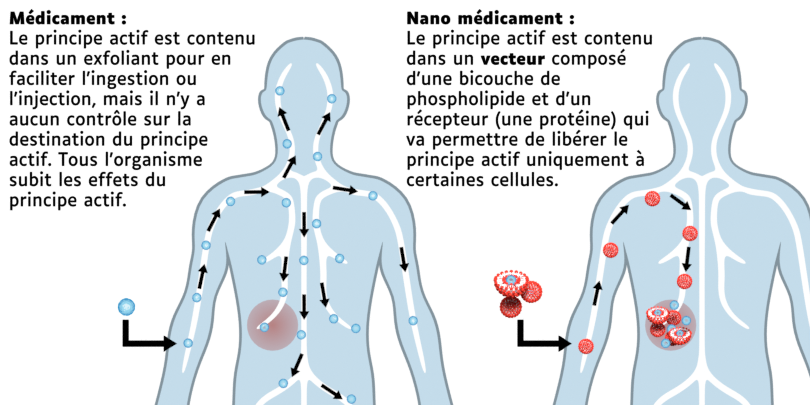
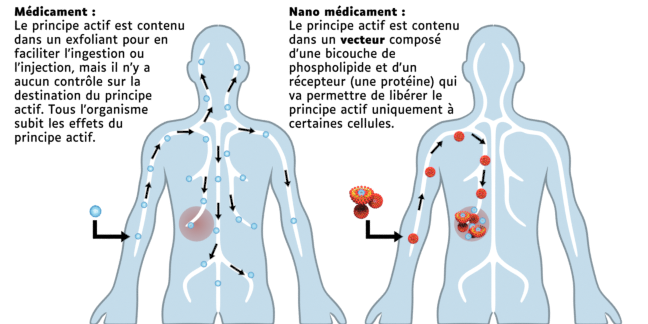
Ajout d'une commande pour espacer une molécule invoquée (comme \dioxygene) du texte qui la suit.

diff --git a/_molecules.tex b/_molecules.tex
@@ -29,44 +29,44 @@
 \definesubmol\alkyleD{(-[-1] R_2)}
 
 %%%% Éléments récurrents 
-\newcommand{\hydrogene}{\chemfig{H}}
-\newcommand{\carbone}  {\chemfig{C}}
-\newcommand{\oxygene}  {\chemfig{O}}
-\newcommand{\azote}    {\chemfig{N}}
-\newcommand{\electron} {\chemfig{e^{-}}}
+\newcommand{\hydrogene}{\chemfig{H}\xspace}
+\newcommand{\carbone}  {\chemfig{C}\xspace}
+\newcommand{\oxygene}  {\chemfig{O}\xspace}
+\newcommand{\azote}    {\chemfig{N}\xspace}
+\newcommand{\electron} {\chemfig{e^{-}}\xspace}
 %%%% Molécules récurrentes
-\newcommand{\dioxygene}          {\chemfig{O_2}}
-\newcommand{\diazote}            {\chemfig{N_2}}
-\newcommand{\dioxydeDeCarbone}   {\chemfig{CO_2}}
-\newcommand{\eau}                {\chemfig{H_2O}}
-\newcommand{\methane}            {\chemfig{CH_4}}
-\newcommand{\ammoniac}           {\chemfig{NH_3}}
-\newcommand{\diiode}             {\chemfig{I_2}}
-\newcommand{\acideCarbonique}    {\chemfig{H_2CO_3}}
-\newcommand{\carbonateDeCalcium} {\chemfig{CaCO_3}}
-\newcommand{\bicarbonateDeSodium}{\chemfig{NaHCO_3}}
-\newcommand{\azotureDeSodium}    {\chemfig{NaN_3}}
-\newcommand{\chlorureDArgent}    {\chemfig{AgCl}}
+\newcommand{\dioxygene}          {\chemfig{O_2}\xspace}
+\newcommand{\diazote}            {\chemfig{N_2}\xspace}
+\newcommand{\dioxydeDeCarbone}   {\chemfig{CO_2}\xspace}
+\newcommand{\eau}                {\chemfig{H_2O}\xspace}
+\newcommand{\methane}            {\chemfig{CH_4}\xspace}
+\newcommand{\ammoniac}           {\chemfig{NH_3}\xspace}
+\newcommand{\diiode}             {\chemfig{I_2}\xspace}
+\newcommand{\acideCarbonique}    {\chemfig{H_2CO_3}\xspace}
+\newcommand{\carbonateDeCalcium} {\chemfig{CaCO_3}\xspace}
+\newcommand{\bicarbonateDeSodium}{\chemfig{NaHCO_3}\xspace}
+\newcommand{\azotureDeSodium}    {\chemfig{NaN_3}\xspace}
+\newcommand{\chlorureDArgent}    {\chemfig{AgCl}\xspace}
 %%%% Ions récurrents
-\newcommand{\oxonium}     {\chemfig{H_3O^{+}}}
-\newcommand{\hydroxyde}   {\chemfig{HO^{-}}}
-\newcommand{\ionHydrogene}{\chemfig{H^{+}}}
-\newcommand{\ammonium}    {\chemfig{NH_4^{+}}}
-\newcommand{\nitrate}     {\chemfig{NO_3^{-}}}
-\newcommand{\sulfate}     {\chemfig{SO_4^{2-}}}
-\newcommand{\chlorure}    {\chemfig{Cl^{-}}}
-\newcommand{\fluorure}    {\chemfig{F^{-}}}
-\newcommand{\carbonate}   {\chemfig{CO_3^{2-}}}
-\newcommand{\bicarbonate} {\chemfig{HCO_3^{-}}}
-\newcommand{\ionFerII}    {\chemfig{Fe^{2+}}}
-\newcommand{\ionFerIII}   {\chemfig{Fe^{3+}}}
-\newcommand{\ionSodium}   {\chemfig{Na^{+}}}
-\newcommand{\ionArgent}   {\chemfig{Ag^{+}}}
-\newcommand{\hypochlorite}{\chemfig{ClO^{-}}}
-\newcommand{\ionCuivreII} {\chemfig{Cu^{2+}}}
-\newcommand{\ionCalcium}  {\chemfig{Ca^{2+}}}
-\newcommand{\ionMagnesium}{\chemfig{Mg^{2+}}}
-\newcommand{\ionPotassium}{\chemfig{K^{+}}}
+\newcommand{\oxonium}     {\chemfig{H_3O^{+}}\xspace}
+\newcommand{\hydroxyde}   {\chemfig{HO^{-}}\xspace}
+\newcommand{\ionHydrogene}{\chemfig{H^{+}}\xspace}
+\newcommand{\ammonium}    {\chemfig{NH_4^{+}}\xspace}
+\newcommand{\nitrate}     {\chemfig{NO_3^{-}}\xspace}
+\newcommand{\sulfate}     {\chemfig{SO_4^{2-}}\xspace}
+\newcommand{\chlorure}    {\chemfig{Cl^{-}}\xspace}
+\newcommand{\fluorure}    {\chemfig{F^{-}}\xspace}
+\newcommand{\carbonate}   {\chemfig{CO_3^{2-}}\xspace}
+\newcommand{\bicarbonate} {\chemfig{HCO_3^{-}}\xspace}
+\newcommand{\ionFerII}    {\chemfig{Fe^{2+}}\xspace}
+\newcommand{\ionFerIII}   {\chemfig{Fe^{3+}}\xspace}
+\newcommand{\ionSodium}   {\chemfig{Na^{+}}\xspace}
+\newcommand{\ionArgent}   {\chemfig{Ag^{+}}\xspace}
+\newcommand{\hypochlorite}{\chemfig{ClO^{-}}\xspace}
+\newcommand{\ionCuivreII} {\chemfig{Cu^{2+}}\xspace}
+\newcommand{\ionCalcium}  {\chemfig{Ca^{2+}}\xspace}
+\newcommand{\ionMagnesium}{\chemfig{Mg^{2+}}\xspace}
+\newcommand{\ionPotassium}{\chemfig{K^{+}}\xspace}
 
 %%%% État physique
 \newcommand{\aq} { \ensuremath{_\text{(aq)}} }

diff --git a/seconde/reaction_chimie/TP_se_chauffer_au_gaz.tex b/seconde/reaction_chimie/TP_se_chauffer_au_gaz.tex
@@ -40,7 +40,7 @@
 }{
   Les réactifs sont le méthane \methane et le dioxygène \dioxygene.
   Les produits sont le dioxyde de carbone \dioxydeDeCarbone et l'eau \eau.
-}{2}
+}[2]
 
 \question{
   Écrire la réaction chimique de combustion du méthane, en précisant les états physiques de chaque espèce chimique.
@@ -50,7 +50,7 @@
       \reaction
       \dioxydeDeCarbonegaz + \chemfig{H_2O}\gaz
   \end{center}
-}{2}
+}[2]
 
 %%
 \begin{doc}{Ajustage d'une réaction}{doc:TP2_equlibrage_reaction}
@@ -90,7 +90,7 @@
     \reaction
     \dioxydeDeCarbone\gaz + 2\chemfig{H_2O}\gaz
   \end{equation*}
-}{2}
+}[2]
 
 
 %%%% bonus
@@ -106,7 +106,7 @@
   Préciser l'état physique des réactifs et des produits.
 }{
   ...
-}{2}
+}[2]
 
 \vspace*{-4pt}
 \begin{doc}{L'eau de chaux}{doc:TP2_eaux_de_chaux}
@@ -118,7 +118,7 @@
   Écrire la réaction de formation du calcaire dans l'eau de chaux en présence de dioxyde de carbone et l'ajuster avec des coefficients stoechiométrique.
 }{
   ...
-}{2}
+}[2]
 
 \numeroQuestion
 Ajuster les réactions chimiques suivantes en écrivant, si nécessaire, les coefficients stoechiométriques devant chaque élément chimique :
@@ -236,7 +236,7 @@ Ajuster les réactions chimiques suivantes en écrivant, si nécessaire, les coe
 %   Écrire la réaction de dissolution du chlorure d'ammonium dans l'eau.
 % }{
 %   \chemfig{NH_4 Cl}\sol \reaction \ammonium + \chlorure
-% }{1}
+% }[1]
 
 \mesure
 Réaliser les dissolutions demandées dans le document~\ref{doc:TP2_dissolution_protocole}. 
@@ -267,7 +267,7 @@ Noter les mesures de températures dans le tableau suivant :
   Parmi les deux dissolution, indiquer laquelle est exothermique et laquelle est endothermique. Justifier.
 }{
   La réaction est endothermique, car la température de la solution baisse pendant la dissolution.
-}{2}
+}[2]
 
 %%
 \question{
@@ -278,7 +278,7 @@ Noter les mesures de températures dans le tableau suivant :
   $E_1 = \qty{875}{\joule}$,
   $E_2 = \qty{1750}{\joule}$,
   $E_2 = \qty{2625}{\joule}$
-}{3}
+}[3]
 
 %%
 % \question{
@@ -286,7 +286,7 @@ Noter les mesures de températures dans le tableau suivant :
 %   Comparer avec la valeur de référence $E_m = \qty{276,3}{\joule\per\g}$.
 % }{
 %   ...
-% }{2}
+% }[2]
 
 \begin{doc}{Énergie de combustion du méthane}{doc:TP2_energie_combustion}
   Comme la réaction de dissolution de la soude, la combustion du méthane libère de l'énergie.
@@ -315,12 +315,12 @@ Noter les mesures de températures dans le tableau suivant :
 
 \question{
   Rappeler la température d'ébullition de l'eau.
-}{}{1}
+}{}[1]
 
 \question{
   Calculer $\Delta T$ si on veut faire bouillir de l'eau initialement à \qty{20}{\degreeCelsius}.
-}{}{2}
+}{}[2]
 
 \question{
   Calculer le volume de gaz nécessaire pour faire bouillir 1 litre d'eau initialement à \qty{20}{\degreeCelsius}.
-}{}{3}
+}{}[3]

diff --git a/stssTerminale.tex b/stssTerminale.tex
@@ -52,8 +52,8 @@
 % \inclusActivite[3]{stssTerminale/biomolecules_alimentation/A3_vitamines}
 % \inclusActivite[4]{stssTerminale/biomolecules_alimentation/A4_lipides}
 % \inclusActivite[1]{stssTerminale/biomolecules_alimentation/TP1_saponification}
-\inclusActivite[5]{stssTerminale/biomolecules_alimentation/A5_additifs}
+% \inclusActivite[5]{stssTerminale/biomolecules_alimentation/A5_additifs}
 
 %% Médicaments et cosmetiques
-\inclusActivite[1]{stssTerminale/molecule_medicament/A1_aspirine}
+% \inclusActivite[1]{stssTerminale/molecule_medicament/A1_aspirine}
 % \inclusActivite[1]{stssTerminale/usage_reponsable_cosmetique/A1_}

diff --git a/seconde.tex b/seconde.tex
@@ -63,7 +63,7 @@
 %% Réactions chimiques
 % \inclusActivite[1]{seconde/reaction_chimie/A_reaction_chimique}
 % \inclusActivite[1]{seconde/reaction_chimie/TP_extincteur_chimique}
-% \inclusActivite[2]{seconde/reaction_chimie/TP_se_chauffer_au_gaz}
+\inclusActivite[2]{seconde/reaction_chimie/TP_se_chauffer_au_gaz}
 % \inclusActivite[2]{seconde/reaction_chimie/TP_dissolution_et_transfert_d-energie}
 %% \inclusActivite[2]{seconde/reaction_chimie/AE2_corrosion}
 % \inclusActivite[3]{seconde/reaction_chimie/A_detartrage_chimique}

diff --git a/stssTerminale/molecule_medicament/A1_aspirine.tex b/stssTerminale/molecule_medicament/A1_aspirine.tex
@@ -95,9 +95,9 @@
 
 \begin{doc}{Les nanomédicaments}{doc:A1_nanomedicaments}
   \begin{wrapfigure}[6]{r}{0.4\linewidth}
-    \vspace*{-10pt}
+    \vspace*{-20pt}
     \begin{center}
-      \image{0.8}{images/sante/nanomedicament} \\
+      \image{0.9}{images/sante/nanomedicament} \\
       \legende{Structure d'un nanomédicament}
     \end{center}
   \end{wrapfigure}

diff --git a/_parametres.tex b/_parametres.tex
@@ -36,6 +36,7 @@
 \usepackage{esvect} % pour faire de jolis vecteurs
 \usepackage{siunitx} % pour avoir de jolie grandeurs avec des unités
 \usetikzlibrary{calc} % pour faire des opérations dans tikz
+\usepackage{xspace}
 
 
 %%%% Commandes prédéfinies
